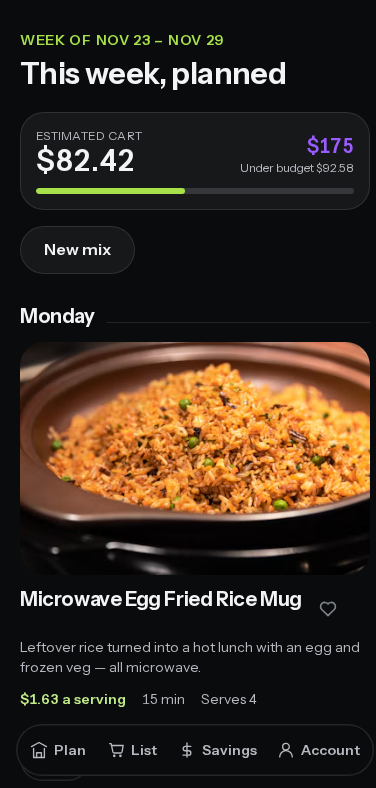
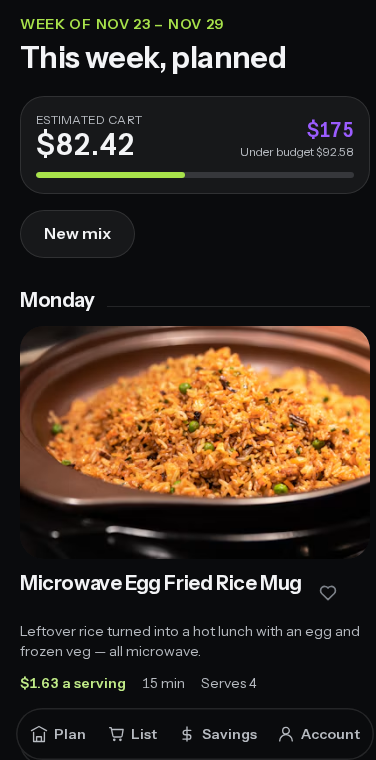
Retake landing screenshots from prod build: no dev badge, tighter crop, wider hero phone

diff --git a/components/landing/landing.tsx b/components/landing/landing.tsx
@@ -19,7 +19,7 @@ function Phone({ src, alt, className = "", priority = false }: { src: string; al
         <div className="relative h-7">
           <div aria-hidden="true" className="absolute left-1/2 top-1.5 h-4 w-[5.5rem] -translate-x-1/2 rounded-full bg-[#1b1b1b] shadow-[0_0_0_1px_rgb(255_255_255/0.06)]" />
         </div>
-        <Image src={src} alt={alt} width={376} height={788} priority={priority} className="h-auto w-full" />
+        <Image src={src} alt={alt} width={376} height={760} priority={priority} className="h-auto w-full" />
       </div>
     </div>
   );
@@ -73,9 +73,9 @@ export function Landing({ locale }: { locale: Locale }) {
             </div>
           </div>
           <div className="rise relative mx-auto w-full max-w-sm lg:max-w-lg">
-            <div className="grid grid-cols-[57%_43%]">
+            <div className="grid grid-cols-[62%_38%]">
               <Phone src="/landing/plan.png" alt={t.inside.shots[0].alt} priority className="relative z-10 -rotate-3" />
-              <div aria-hidden="true" className="relative z-0 -ml-[38%] mt-14 rotate-[4deg]">
+              <div aria-hidden="true" className="relative z-0 -ml-[28%] mt-14 rotate-[4deg]">
                 <Phone src="/landing/list.png" alt="" />
               </div>
             </div>
